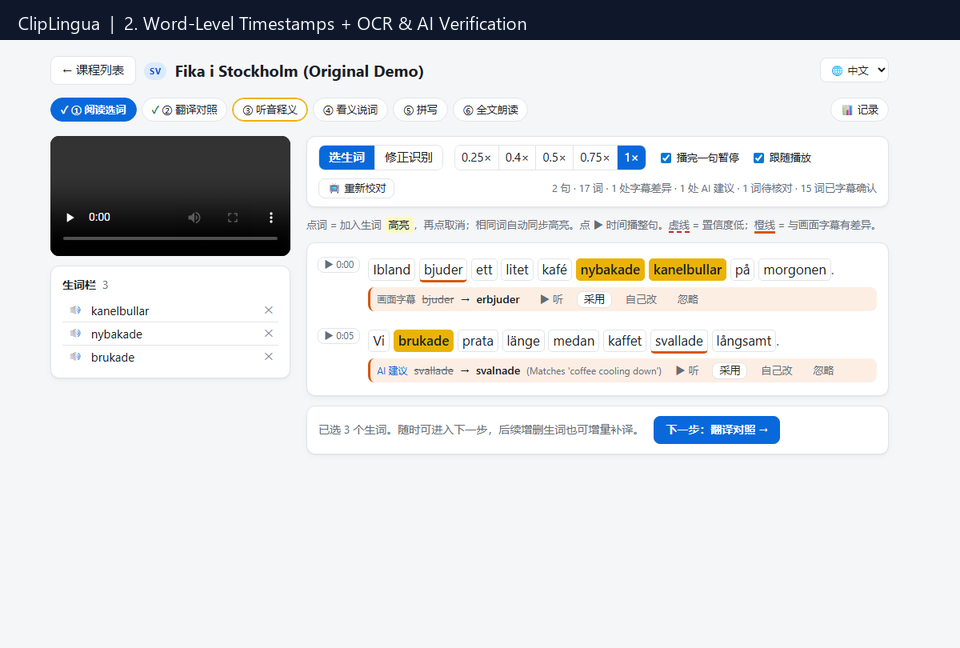
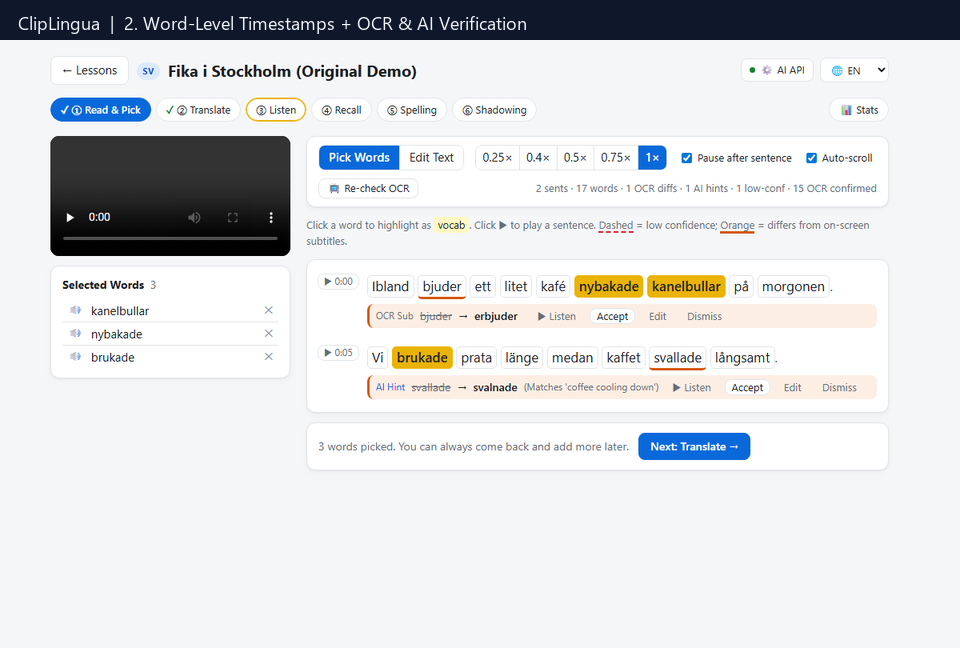
chore: split optional CUDA deps and regenerate English demo GIF

diff --git a/app/web/i18n.js b/app/web/i18n.js
@@ -873,6 +873,10 @@ const I18N = {
 };
 
 function _detectUiLang() {
+  const fromQuery = (() => {
+    try { return new URLSearchParams(location.search).get("lang"); } catch { return null; }
+  })();
+  if (fromQuery && SUPPORTED_UI_LANGS.includes(fromQuery)) return fromQuery;
   const saved = (() => { try { return localStorage.getItem("ui.lang"); } catch { return null; } })();
   if (saved && SUPPORTED_UI_LANGS.includes(saved)) return saved;
   const nav = (navigator.language || "en").toLowerCase().split("-")[0];

diff --git a/scripts/make_demo_gif.py b/scripts/make_demo_gif.py
@@ -70,14 +70,15 @@ def main() -> None:
             time.sleep(0.2)
 
     shots = [
-        ("01_home.png", f"http://127.0.0.1:{port}/", "1. Multilingual Dashboard (SV / EN / ES / ZH)"),
-        ("02_reader.png", f"http://127.0.0.1:{port}/lesson/demo_sv_coffee", "2. Word-Level Timestamps + OCR & AI Verification"),
-        ("03_translate.png", f"http://127.0.0.1:{port}/lesson/demo_sv_coffee/translate", "3. Zero-API-Key Bilingual Translation & Lemma Extraction"),
-        ("04_vocab.png", f"http://127.0.0.1:{port}/vocab", "4. Cross-Lesson Vocabulary Book with Lemma Merging"),
-        ("05_review.png", f"http://127.0.0.1:{port}/review", "5. Guilt-Free Spaced Repetition (4 Progressive Modes)"),
+        ("01_home.png", f"http://127.0.0.1:{port}/?lang=en", "1. Multilingual Dashboard (SV / EN / ES / ZH)"),
+        ("02_reader.png", f"http://127.0.0.1:{port}/lesson/demo_sv_coffee?lang=en", "2. Word-Level Timestamps + OCR & AI Verification"),
+        ("03_translate.png", f"http://127.0.0.1:{port}/lesson/demo_sv_coffee/translate?lang=en", "3. Zero-API-Key Bilingual Translation & Lemma Extraction"),
+        ("04_vocab.png", f"http://127.0.0.1:{port}/vocab?lang=en", "4. Cross-Lesson Vocabulary Book with Lemma Merging"),
+        ("05_review.png", f"http://127.0.0.1:{port}/review?lang=en", "5. Guilt-Free Spaced Repetition (4 Progressive Modes)"),
     ]
 
     tmp_shots = Path(tempfile.mkdtemp(prefix="cliplingua_shots_"))
+    tmp_profile = Path(tempfile.mkdtemp(prefix="cliplingua_browser_"))
     captured: list[tuple[Path, str]] = []
     try:
         for fname, url, caption in shots:
@@ -86,6 +87,12 @@ def main() -> None:
                 [
                     browser,
                     "--headless=new",
+                    f"--user-data-dir={tmp_profile}",
+                    "--lang=en-US",
+                    "--no-first-run",
+                    "--no-default-browser-check",
+                    "--disable-extensions",
+                    "--no-proxy-server",
                     "--disable-gpu",
                     "--hide-scrollbars",
                     "--window-size=1200,760",
@@ -95,9 +102,10 @@ def main() -> None:
                 ],
                 check=True,
                 capture_output=True,
+                timeout=30,
             )
             captured.append((out_png, caption))
-            print(f"  Captured {fname}")
+            print(f"  Captured {fname}", flush=True)
 
         from PIL import Image, ImageDraw, ImageFont
 
@@ -144,6 +152,7 @@ def main() -> None:
         print(f"Generated {gif_path} ({gif_path.stat().st_size / 1024:.1f} KB)")
     finally:
         shutil.rmtree(tmp_shots, ignore_errors=True)
+        shutil.rmtree(tmp_profile, ignore_errors=True)
         shutil.rmtree(TMP_LESSONS, ignore_errors=True)
 
 

diff --git a/README.zh-CN.md b/README.zh-CN.md
@@ -88,11 +88,11 @@ source .venv/bin/activate
 pip install -r requirements.txt
 ```
 
-> **可选：NVIDIA GPU 加速 OCR 与人声分离**  
-> 默认依赖会自动安装跨平台 CPU 版 `onnxruntime`，以保证 Windows / macOS / Linux 零配置运行。若本机配有 NVIDIA CUDA 12 显卡，执行以下两条命令替换为 `onnxruntime-gpu`，程序会自动检测并启用 GPU 加速（可提速 10 倍以上）：
+> **可选：NVIDIA GPU 加速（语音转写 + OCR + 人声分离）**  
+> 默认的 `requirements.txt` 仅安装轻量级跨平台 CPU 依赖（Windows / macOS / Linux 均可直接运行），**完全不强制要求 NVIDIA 显卡**。若本机配有 NVIDIA CUDA 12 显卡，按需执行以下两条命令即可开启全链路 GPU 加速（可提速 10 倍以上）：
 > ```bash
 > pip uninstall -y onnxruntime
-> pip install onnxruntime-gpu
+> pip install -r requirements-cuda.txt
 > ```
 > 此外还支持通过环境变量按需微调速度：`CLIPLINGUA_OCR_FPS`（默认 `1.5`）、`CLIPLINGUA_AUTO_OCR=0`（导入后仅在手动点击时执行字幕校对）、`CLIPLINGUA_WHISPER_BEAM`（默认 `2`）。
 

diff --git a/README.md b/README.md
@@ -90,11 +90,11 @@ source .venv/bin/activate
 pip install -r requirements.txt
 ```
 
-> **Optional: NVIDIA GPU Acceleration for OCR & Vocal Separation**  
-> Default dependencies install CPU `onnxruntime` for zero-friction cross-platform setup (Windows / macOS / Linux). On machines with an NVIDIA CUDA 12 GPU, swap to `onnxruntime-gpu` and ClipLingua will automatically detect CUDA (10x+ faster OCR & vocal separation):
+> **Optional: NVIDIA GPU Acceleration (Whisper + OCR + Vocal Separation)**  
+> Default `requirements.txt` installs lightweight, cross-platform CPU dependencies only (Windows / macOS / Linux) — **no NVIDIA GPU is required**. On machines with an NVIDIA CUDA 12 GPU, install the optional GPU extras and ClipLingua will automatically detect CUDA (10x+ faster transcription, OCR & vocal separation):
 > ```bash
 > pip uninstall -y onnxruntime
-> pip install onnxruntime-gpu
+> pip install -r requirements-cuda.txt
 > ```
 > Optional tuning environment variables: `CLIPLINGUA_OCR_FPS` (default `1.5`), `CLIPLINGUA_AUTO_OCR=0` (run OCR only on demand), `CLIPLINGUA_WHISPER_BEAM` (default `2`).
 
